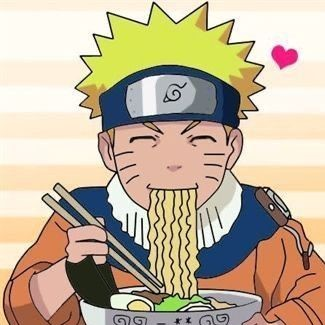
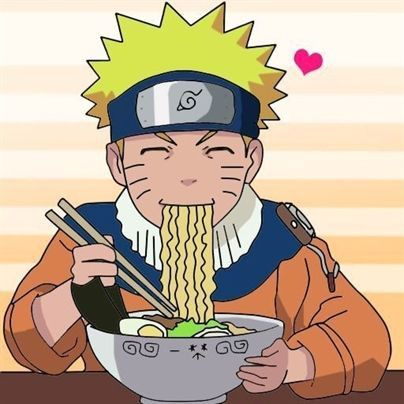
update

diff --git a/PaginaReceita/Receitas.html b/PaginaReceita/Receitas.html
@@ -66,13 +66,13 @@
             <div class="recipes-grid">
                 <!-- Receita 1 -->
                 <div class="recipe-card">
-                    <a href="receita-carbonara.html">
-                        <img src="../assets/carbonara.jpg" alt="Espaguete à Carbonara" class="recipe-img">
+                    <a href="receita-macarraoAlhoOleo.html">
+                        <img src="../assets/MacarraoAlhoOleo.jpg" alt="Espaguete Alho e Óleo" class="recipe-img">
                     </a>
                     <div class="recipe-info">
-                        <h3 class="recipe-title"><a href="receita-carbonara.html">Espaguete à Carbonara</a></h3>
+                        <h3 class="recipe-title"><a href="receita-macarraoAlhoOleo.html">Espaguete Alho e Óleo</a></h3>
                         <div class="recipe-meta">
-                            <span><i class="fas fa-clock"></i> 20 min</span>
+                            <span><i class="fas fa-clock"></i> 25 min</span>
                             <span><i class="fas fa-utensils"></i> 4 porções</span>
                         </div>
                         <p>Clássico italiano com pancetta crocante e molho cremoso de ovos e queijo pecorino.</p>
@@ -90,7 +90,7 @@
                 <!-- Receita 2 -->
                 <div class="recipe-card">
                     <a href="receita-brigadeiro.html">
-                        <img src="../assets/brigadeiro.jpg" alt="Brigadeiro Gourmet" class="recipe-img">
+                        <img src="../assets/brigadeiro.jpeg" alt="Brigadeiro Gourmet" class="recipe-img">
                     </a>
                     <div class="recipe-info">
                         <h3 class="recipe-title"><a href="receita-brigadeiro.html">Brigadeiro Gourmet</a></h3>
@@ -112,19 +112,19 @@
                 
                 <!-- Receita 3 -->
                 <div class="recipe-card">
-                    <a href="receita-risoto.html">
-                        <img src="../assets/risoto.jpg" alt="Risoto de Funghi" class="recipe-img">
+                    <a href="receita-narutoLamen.html">
+                        <img src="../assets/Naruto.jpeg" alt="Lamen do Naruto" class="recipe-img">
                     </a>
                     <div class="recipe-info">
-                        <h3 class="recipe-title"><a href="receita-risoto.html">Risoto de Funghi</a></h3>
+                        <h3 class="recipe-title"><a href="receita-narutoLamen.html">Lamen do Naruto</a></h3>
                         <div class="recipe-meta">
-                            <span><i class="fas fa-clock"></i> 45 min</span>
-                            <span><i class="fas fa-utensils"></i> 2 porções</span>
+                            <span><i class="fas fa-clock"></i> 2h 30 min</span>
+                            <span><i class="fas fa-utensils"></i> 10 porções</span>
                         </div>
-                        <p>Cremoso risoto com cogumelos frescos e finalizado com trufa negra.</p>
+                        <p>Ichiraku Miso Ramen.</p>
                         <div class="recipe-categories">
-                            <span class="category-tag">Italiana</span>
-                            <span class="category-tag">Vegetariana</span>
+                            <span class="category-tag">Anime</span>
+                            <span class="category-tag">Japonesa</span>
                         </div>
                         <div class="recipe-author">
                             <img src="../assets/chef3.jpg" alt="Chef Ana" class="author-avatar">

diff --git a/PaginaReceita/StyleReceitas.css b/PaginaReceita/StyleReceitas.css
@@ -5,22 +5,21 @@
     --main-font: 'Source Sans 3', sans-serif;
 
     /* Tema Claro */
-    --bg-color: #FEF9E1;        /* Fundo principal */
-    --text-color: #343131;      /* Texto principal */
-    --primary-color: #C14600;   /* Cor primária - laranja escuro */
-    --secondary-color: #FF9D23; /* Cor secundária - laranja claro */
-    --accent-color: #E5D0AC;    /* Cor de destaque */
-    --card-bg: #FFFFFF;         /* Fundo de cards */
-    --header-border: #FF9D23;   /* Borda do cabeçalho */
-    --footer-bg: #343131;       /* Fundo do rodapé */
-    --footer-text: #FEF9E1;     /* Texto do rodapé */
-    --footer-link: #FF9D23;     /* Links do rodapé */
-    --shadow-color: rgba(195, 70, 0, 0.1); /* Sombras */
-    --testimonial-bg: #E5D0AC;  /* Fundo de depoimentos */
-    --hero-bg: #FEF9E1;         /* Fundo do herói */
-    --button-bg: #C14600;       /* Fundo de botões */
-    --button-text: #FEF9E1;     /* Texto de botões */
-    --hover-color: #FF9D23;     /* Cor de hover */
+    --bg-color: #FEF9E1;     
+    --text-color: #343131;   
+    --primary-color: #C14600;  
+    --secondary-color: #FF9D23;
+    --accent-color: #E5D0AC; 
+    --card-bg: #FFFFFF;     
+    --header-border: #FF9D23;   
+    --footer-bg: #343131;    
+    --footer-text: #FEF9E1;  
+    --footer-link: #FF9D23;  
+    --shadow-color: rgba(195, 70, 0, 0.1);
+    --testimonial-bg: #E5D0AC;  
+    --hero-bg: #FEF9E1;   
+    --button-bg: #C14600;      
+    --button-text: #FEF9E1;     
     
     /* Carrossel */
     --carousel-control-bg: rgba(255, 255, 255, 0.7);
@@ -31,19 +30,17 @@
 .dark-mode {
     /* Tema Escuro */
     --bg-color: #343131;        
-    --text-color: #E5D0AC;      /* Texto principal */
-    --primary-color: #D8A25E;   /* Cor primária - dourado */
-    --secondary-color: #A04747; /* Cor secundária - vinho */
-    --accent-color: #EEDF7A;    /* Cor de destaque - amarelo claro */
-    --card-bg: #434040;         /* Fundo de cards */
-    --header-border: #D8A25E;   /* Borda do cabeçalho */
-    --footer-bg: #1A1A1A;       /* Fundo do rodapé */
-    --footer-text: #E5D0AC;     /* Texto do rodapé */
-    --footer-link: #D8A25E;     /* Links do rodapé */
-    --shadow-color: rgba(0, 0, 0, 0.3); /* Sombras #FFF0DC
-    #F0BB78
-    #543A14
-    #131010*/
+    --text-color: #E5D0AC;  
+    --primary-color: #D8A25E;   
+    --secondary-color: #ff5500; 
+    --accent-color: #EEDF7A;    
+    --card-bg: #434040;    
+    --header-border: #D8A25E;  
+    --footer-bg: #1A1A1A;   
+    --footer-text: #E5D0AC; 
+    --footer-link: #D8A25E; 
+    --shadow-color: rgba(0, 0, 0, 0.3); 
+   
     --testimonial-bg: #434040;  /* Fundo de depoimentos */
     --hero-bg: #343131;         /* Fundo do herói */
     --button-bg: #D8A25E;       /* Fundo de botões */
